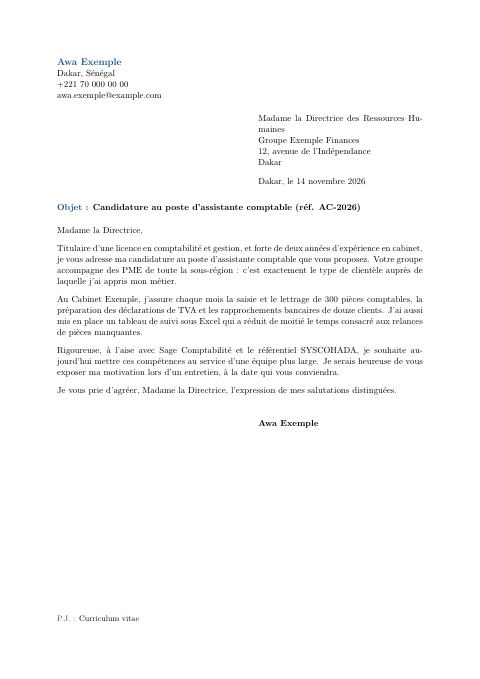
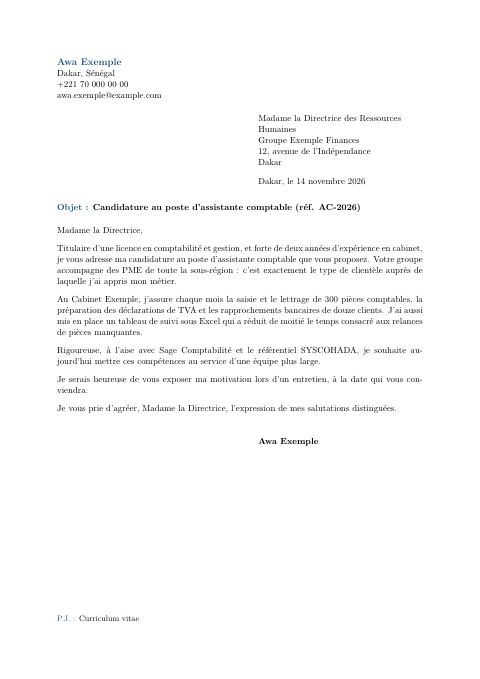
Structure la lettre de motivation : formulaire guidé et choix du modèle
- Formulaire en quatre rubriques (destinataire, lieu/date/objet, texte, pièces
  jointes) ; le texte se saisit en quatre parties : accroche, parcours,
  entreprise, conclusion. Les anciennes sauvegardes (champ « corps » unique)
  sont réparties automatiquement et le serveur accepte toujours ce format.
- Ajoute le sélecteur de modèle de lettre (classique, moderne, épurée), absent
  de l'éditeur : seul le modèle classique était accessible.
- Compteur de mots avec conseil de longueur ; « Voir un exemple » remplit aussi
  la lettre.
- Modèle moderne : les coordonnées ne débordent plus du bandeau.
- Bloc destinataire : plus de mot coupé en fin de ligne.

Changed region(s): [[0.125, 0.5258, 0.875, 0.6804], [0.625, 0.1546, 0.875, 0.1856], [0.5312, 0.1856, 0.625, 0.2165]]

diff --git a/web/app.js b/web/app.js
@@ -46,26 +46,41 @@ const ETAPES = [
   [cv => cv.profil.trim(), "quelques lignes de profil"],
 ];
 
+const PARTIES_LETTRE = ["accroche", "parcours", "entreprise", "conclusion"];
+const MODELES_LETTRE = ["classique", "moderne", "epure"];
 const TEXTES_LETTRE = {
   fr: { salutation: "Madame, Monsieur,",
         formule: "Je vous prie d'agréer, Madame, Monsieur, l'expression de mes salutations distinguées.",
-        trame: "Actuellement [ta situation], je vous adresse ma candidature au poste de [poste] au sein de [entreprise].\n\n[Ce que tu as fait : formation, expériences, résultats concrets en lien avec le poste.]\n\n[Pourquoi cette entreprise, et ce que tu peux lui apporter.]\n\nJe me tiens à votre disposition pour un entretien afin de vous exposer plus en détail ma motivation." },
+        trame: {
+          accroche: "Actuellement [ta situation], je vous adresse ma candidature au poste de [poste] au sein de [entreprise].",
+          parcours: "[Ce que tu as fait : formation, expériences, résultats concrets en lien avec le poste.]",
+          entreprise: "[Pourquoi cette entreprise, et ce que tu peux lui apporter.]",
+          conclusion: "Je me tiens à votre disposition pour un entretien afin de vous exposer plus en détail ma motivation." } },
   en: { salutation: "Dear Sir or Madam,",
         formule: "Yours faithfully,",
-        trame: "I am writing to apply for the position of [position] at [company].\n\n[What you have done: education, experience, concrete results relevant to the role.]\n\n[Why this company, and what you can bring to it.]\n\nI would welcome the opportunity to discuss my application with you in an interview." },
+        trame: {
+          accroche: "I am writing to apply for the position of [position] at [company].",
+          parcours: "[What you have done: education, experience, concrete results relevant to the role.]",
+          entreprise: "[Why this company, and what you can bring to it.]",
+          conclusion: "I would welcome the opportunity to discuss my application with you in an interview." } },
   it: { salutation: "Gentili Signori,",
         formule: "In attesa di un Vostro cortese riscontro, porgo distinti saluti.",
-        trame: "Con la presente desidero candidarmi per la posizione di [posizione] presso [azienda].\n\n[Cosa hai fatto: formazione, esperienze, risultati concreti legati al ruolo.]\n\n[Perché questa azienda e cosa puoi offrirle.]\n\nResto a disposizione per un colloquio conoscitivo." },
+        trame: {
+          accroche: "Con la presente desidero candidarmi per la posizione di [posizione] presso [azienda].",
+          parcours: "[Cosa hai fatto: formazione, esperienze, risultati concreti legati al ruolo.]",
+          entreprise: "[Perché questa azienda e cosa puoi offrirle.]",
+          conclusion: "Resto a disposizione per un colloquio conoscitivo." } },
 };
 
 function etatVide() {
   return {
     type: "cv",
-    options: { modele: "moderne", langue: "fr", couleur: "1F4E79", certifier: false },
+    options: { modele: "moderne", modele_lettre: "classique", langue: "fr", couleur: "1F4E79", certifier: false },
     cv: { nom: "", titre: "", email: "", telephone: "", ville: "", etat_civil: {}, profil: "",
           experiences: [{}], formations: [{}], competences: [{}], langues: [{}], liens: [],
           interets: "", references: [], photo: "" },
-    lettre: { destinataire: {}, lieu: "", objet: "", corps: "", pj: "",
+    lettre: { destinataire: {}, lieu: "", objet: "", pj: "",
+              parties: { accroche: "", parcours: "", entreprise: "", conclusion: "" },
               date: new Date().toLocaleDateString("fr-FR", { day: "numeric", month: "long", year: "numeric" }),
               salutation: TEXTES_LETTRE.fr.salutation, formule: TEXTES_LETTRE.fr.formule },
   };
@@ -89,6 +104,7 @@ function fusionner(source) {
     }
   }
   if (!MODELES.includes(e.options.modele)) e.options.modele = modele.options.modele;
+  if (!MODELES_LETTRE.includes(e.options.modele_lettre)) e.options.modele_lettre = modele.options.modele_lettre;
   for (const nom of Object.keys(LISTES)) {
     const liste = Array.isArray(e.cv[nom]) ? e.cv[nom] : [];
     e.cv[nom] = liste.filter(x => x && typeof x === "object").map(x => ({ ...x }));
@@ -101,7 +117,27 @@ function fusionner(source) {
     const v = e[bloc][cle];
     e[bloc][cle] = v && typeof v === "object" && !Array.isArray(v) ? { ...v } : {};
   }
+  // Texte de la lettre : quatre parties, chacune une chaîne.
+  const recues = e.lettre.parties && typeof e.lettre.parties === "object" ? e.lettre.parties : {};
+  e.lettre.parties = {};
+  for (const cle of PARTIES_LETTRE) e.lettre.parties[cle] = typeof recues[cle] === "string" ? recues[cle] : "";
+  // Ancienne sauvegarde : tout le texte était dans un seul champ « corps ». On le répartit
+  // (1er paragraphe = accroche, dernier = conclusion, le reste entre les deux).
+  if (typeof e.lettre.corps === "string" && e.lettre.corps.trim() && !texteLettre(e.lettre)) {
+    const paras = e.lettre.corps.split("\n").map(p => p.trim()).filter(Boolean);
+    const p = e.lettre.parties;
+    p.accroche = paras.shift() || "";
+    if (paras.length >= 2) p.conclusion = paras.pop();
+    if (paras.length >= 2) p.entreprise = paras.pop();
+    p.parcours = paras.join("\n");
+  }
+  delete e.lettre.corps;
   return e;
+}
+
+/** Le texte de la lettre, parties mises bout à bout ("" si rien n'est écrit). */
+function texteLettre(lettre) {
+  return PARTIES_LETTRE.map(cle => (lettre.parties[cle] || "").trim()).filter(Boolean).join("\n");
 }
 
 let etat = etatVide();
@@ -237,7 +273,23 @@ for (const b of $$(".onglets button")) {
   b.addEventListener("click", () => { etat.type = b.dataset.type; afficherType(); modifie(0); });
 }
 
+/** Sous le texte de la lettre : sa longueur, et ce qu'il reste à écrire. */
+function afficherLongueurLettre() {
+  const mots = texteLettre(etat.lettre).split(/\s+/).filter(Boolean).length;
+  const vides = PARTIES_LETTRE.filter(cle => !(etat.lettre.parties[cle] || "").trim()).length;
+  const reste = /\[[^\]]*\]/.test(texteLettre(etat.lettre));
+  let avis = "";
+  if (!mots) avis = "Vise 150 à 300 mots : assez pour convaincre, et tout tient sur une page.";
+  else if (reste) avis = `${mots} mots · remplace les passages entre [crochets] par ton texte.`;
+  else if (vides) avis = `${mots} mots · il reste ${vides} partie${vides > 1 ? "s" : ""} à écrire.`;
+  else if (mots < 120) avis = `${mots} mots · c'est un peu court : ajoute un exemple concret de ce que tu as réalisé.`;
+  else if (mots > 330) avis = `${mots} mots · c'est long : la lettre risque de dépasser une page, raccourcis.`;
+  else avis = `${mots} mots · bonne longueur.`;
+  $("#longueur-lettre").textContent = avis;
+}
+
 function afficherProgres() {
+  afficherLongueurLettre();
   const manquants = ETAPES.filter(([test]) => !test(etat.cv)).map(([, conseil]) => conseil);
   const pourcent = Math.round(100 * (ETAPES.length - manquants.length) / ETAPES.length);
   $("#progres").value = pourcent;
@@ -258,7 +310,7 @@ function montrerErreur(message) {
 
 function pret() {
   if (!etat.cv.nom.trim()) return "Renseigne ton nom pour voir l'aperçu.";
-  if (etat.type === "lettre" && !etat.lettre.corps.trim()) return "Écris le texte de la lettre pour voir l'aperçu.";
+  if (etat.type === "lettre" && !texteLettre(etat.lettre)) return "Écris le texte de la lettre pour voir l'aperçu.";
   return "";
 }
 
@@ -425,8 +477,8 @@ function adapterLangueLettre(langue) {
 }
 
 $("#btn-trame").addEventListener("click", () => {
-  if (etat.lettre.corps.trim() && !confirm("Remplacer le texte actuel de la lettre par la trame ?")) return;
-  etat.lettre.corps = (TEXTES_LETTRE[etat.options.langue] || TEXTES_LETTRE.fr).trame;
+  if (texteLettre(etat.lettre) && !confirm("Remplacer le texte actuel de la lettre par les phrases à compléter ?")) return;
+  etat.lettre.parties = { ...(TEXTES_LETTRE[etat.options.langue] || TEXTES_LETTRE.fr).trame };
   remplirChamps(); modifie();
 });
 
@@ -442,7 +494,10 @@ async function chargerExemple() {
   if (etat.cv.nom.trim() && !confirm("Remplacer tes données par l'exemple ?")) return;
   try {
     const exemple = await (await fetch("exemple.json")).json();
-    etat = fusionner({ type: etat.type, options: etat.options, lettre: etat.lettre, cv: exemple });
+    // L'exemple de lettre va avec l'exemple de CV (même personne) ; on garde la lettre
+    // déjà écrite s'il y en a une.
+    const lettre = texteLettre(etat.lettre) ? etat.lettre : await (await fetch("exemple_lettre.json")).json();
+    etat = fusionner({ type: etat.type, options: etat.options, lettre, cv: exemple });
     toutDessiner(); modifie(0);
   } catch {
     montrerErreur("Impossible de charger l'exemple.");

diff --git a/web/creer.html b/web/creer.html
@@ -44,6 +44,16 @@
           <img src="img/modele_africain.png" alt="" loading="lazy"><span>Africain</span></label>
       </fieldset>
       <p class="conseil pour-cv" id="conseil-modele"></p>
+      <fieldset class="choix-modele pour-lettre" hidden>
+        <legend>Modèle de lettre</legend>
+        <label><input type="radio" name="modele_lettre" value="classique" data-k="options.modele_lettre">
+          <img src="img/lettre_classique.png" alt="" loading="lazy"><span>Classique</span></label>
+        <label><input type="radio" name="modele_lettre" value="moderne" data-k="options.modele_lettre">
+          <img src="img/lettre_moderne.png" alt="" loading="lazy"><span>Moderne</span></label>
+        <label><input type="radio" name="modele_lettre" value="epure" data-k="options.modele_lettre">
+          <img src="img/lettre_epure.png" alt="" loading="lazy"><span>Épurée</span></label>
+      </fieldset>
+      <p class="conseil pour-lettre" hidden>Choisis le même style et la même couleur que ton CV : les deux documents iront ensemble. Ton nom et tes coordonnées viennent de la rubrique « Identité ».</p>
       <div class="grille">
         <fieldset class="choix-couleur">
           <legend>Couleur</legend>
@@ -118,7 +128,7 @@
     <!-- ===================== Lettre ===================== -->
     <div class="pour-lettre" hidden>
       <details open>
-        <summary>Destinataire</summary>
+        <summary>Destinataire <small>à qui tu écris</small></summary>
         <div class="grille">
           <label>Nom ou fonction<input data-k="lettre.destinataire.nom" maxlength="120" placeholder="Madame la Directrice des RH"></label>
           <label>Entreprise<input data-k="lettre.destinataire.entreprise" maxlength="160"></label>
@@ -128,21 +138,41 @@
         </div>
       </details>
       <details open>
-        <summary>Lettre</summary>
+        <summary>Lieu, date et objet</summary>
         <div class="grille">
-          <label>Fait à<input data-k="lettre.lieu" maxlength="80"></label>
+          <label>Fait à<input data-k="lettre.lieu" maxlength="80" placeholder="Dakar"></label>
           <label>Date<input data-k="lettre.date" maxlength="60"></label>
-          <label class="large">Objet<input data-k="lettre.objet" maxlength="300" placeholder="Candidature au poste de…"></label>
+          <label class="large">Objet <small>le poste, et la référence de l'annonce s'il y en a une</small>
+            <input data-k="lettre.objet" maxlength="300" placeholder="Candidature au poste de…"></label>
+        </div>
+      </details>
+      <details open>
+        <summary>Texte de la lettre *</summary>
+        <p class="conseil">Une bonne lettre tient sur une page et suit quatre temps. Remplis-les dans l'ordre : chaque case devient un paragraphe.</p>
+        <button type="button" id="btn-trame" class="ajouter">Pré-remplir avec des phrases à compléter</button>
+        <div class="grille espace-haut">
           <label class="large">Formule d'appel<input data-k="lettre.salutation" maxlength="160"></label>
-          <label class="large">Texte de la lettre * <small>un retour à la ligne = un nouveau paragraphe</small>
-            <textarea data-k="lettre.corps" rows="12" maxlength="8000"></textarea>
+          <label class="large">Accroche <small>pourquoi tu écris : le poste visé, ta situation actuelle</small>
+            <textarea data-k="lettre.parties.accroche" rows="3" maxlength="2000"></textarea>
+          </label>
+          <label class="large">Ton parcours <small>formation, expériences, un ou deux résultats chiffrés en lien avec le poste</small>
+            <textarea data-k="lettre.parties.parcours" rows="5" maxlength="2000"></textarea>
+          </label>
+          <label class="large">L'entreprise et toi <small>pourquoi cette entreprise, ce que tu peux lui apporter</small>
+            <textarea data-k="lettre.parties.entreprise" rows="4" maxlength="2000"></textarea>
+          </label>
+          <label class="large">Conclusion <small>propose un entretien</small>
+            <textarea data-k="lettre.parties.conclusion" rows="2" maxlength="2000"></textarea>
           </label>
           <label class="large">Formule de politesse
             <textarea data-k="lettre.formule" rows="2" maxlength="600"></textarea>
           </label>
-          <label class="large">Pièces jointes<input data-k="lettre.pj" maxlength="300" placeholder="CV"></label>
         </div>
-        <button type="button" id="btn-trame" class="ajouter">Insérer une trame de lettre à compléter</button>
+        <p class="conseil" id="longueur-lettre" role="status"></p>
+      </details>
+      <details open>
+        <summary>Pièces jointes <small>facultatif</small></summary>
+        <label>Documents joints à la lettre<input data-k="lettre.pj" maxlength="300" placeholder="Curriculum vitae"></label>
       </details>
     </div>
   </form>

diff --git a/moteur.py b/moteur.py
@@ -42,6 +42,8 @@ MODELES_LETTRE = {
     "classique": "Classique (présentation française traditionnelle)",
     "epure": "Épurée (en-tête centré, filet de couleur)",
 }
+# Les quatre parties du texte d'une lettre, dans l'ordre où elles sont imprimées.
+PARTIES_LETTRE = ("accroche", "parcours", "entreprise", "conclusion")
 LANGUES = ("fr", "en", "it")
 COULEUR_DEFAUT = "1F4E79"
 
@@ -440,7 +442,11 @@ def preparer_lettre(brut, lettre, options=None):
     l = _dico(lettre)
     dest = _dico(l.get("destinataire"))
 
-    corps = _lignes(l.get("corps"), 30, 2000)
+    # Le texte arrive en quatre parties (formulaire guidé) et/ou en un seul bloc « corps »
+    # (anciennes sauvegardes, ligne de commande) : on les met bout à bout, dans l'ordre.
+    parties = _dico(l.get("parties"))
+    corps = [ligne for cle in PARTIES_LETTRE for ligne in _lignes(parties.get(cle), 10, 2000)]
+    corps = (corps + _lignes(l.get("corps"), 30, 2000))[:30]
     if not corps:
         raise ErreurDonnees("Le texte de la lettre est vide.")
 
